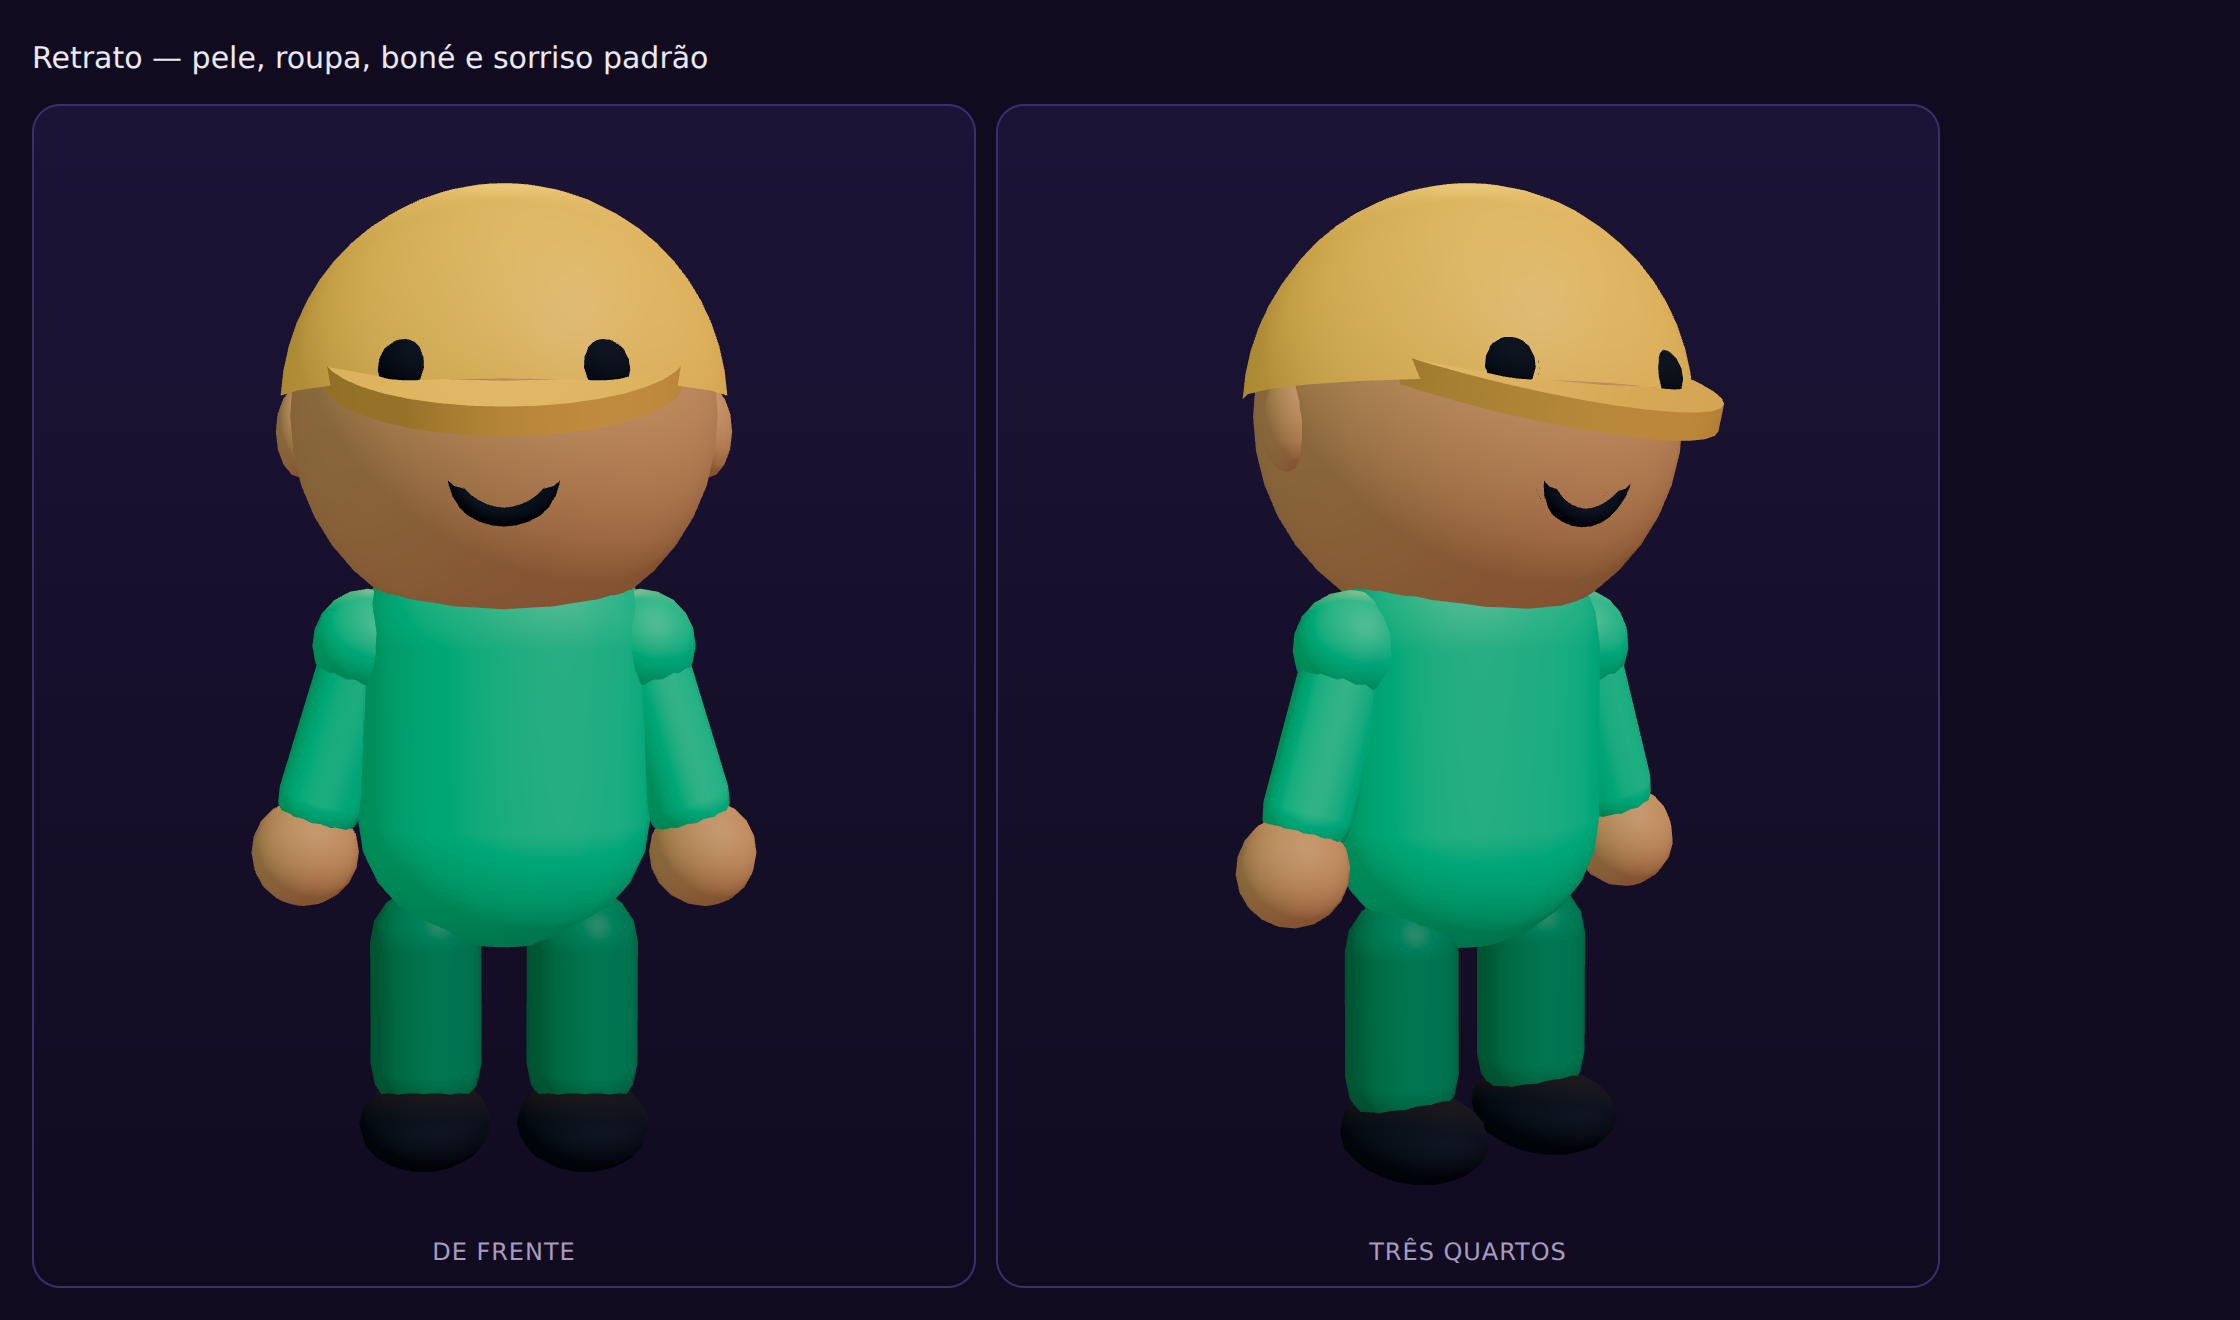
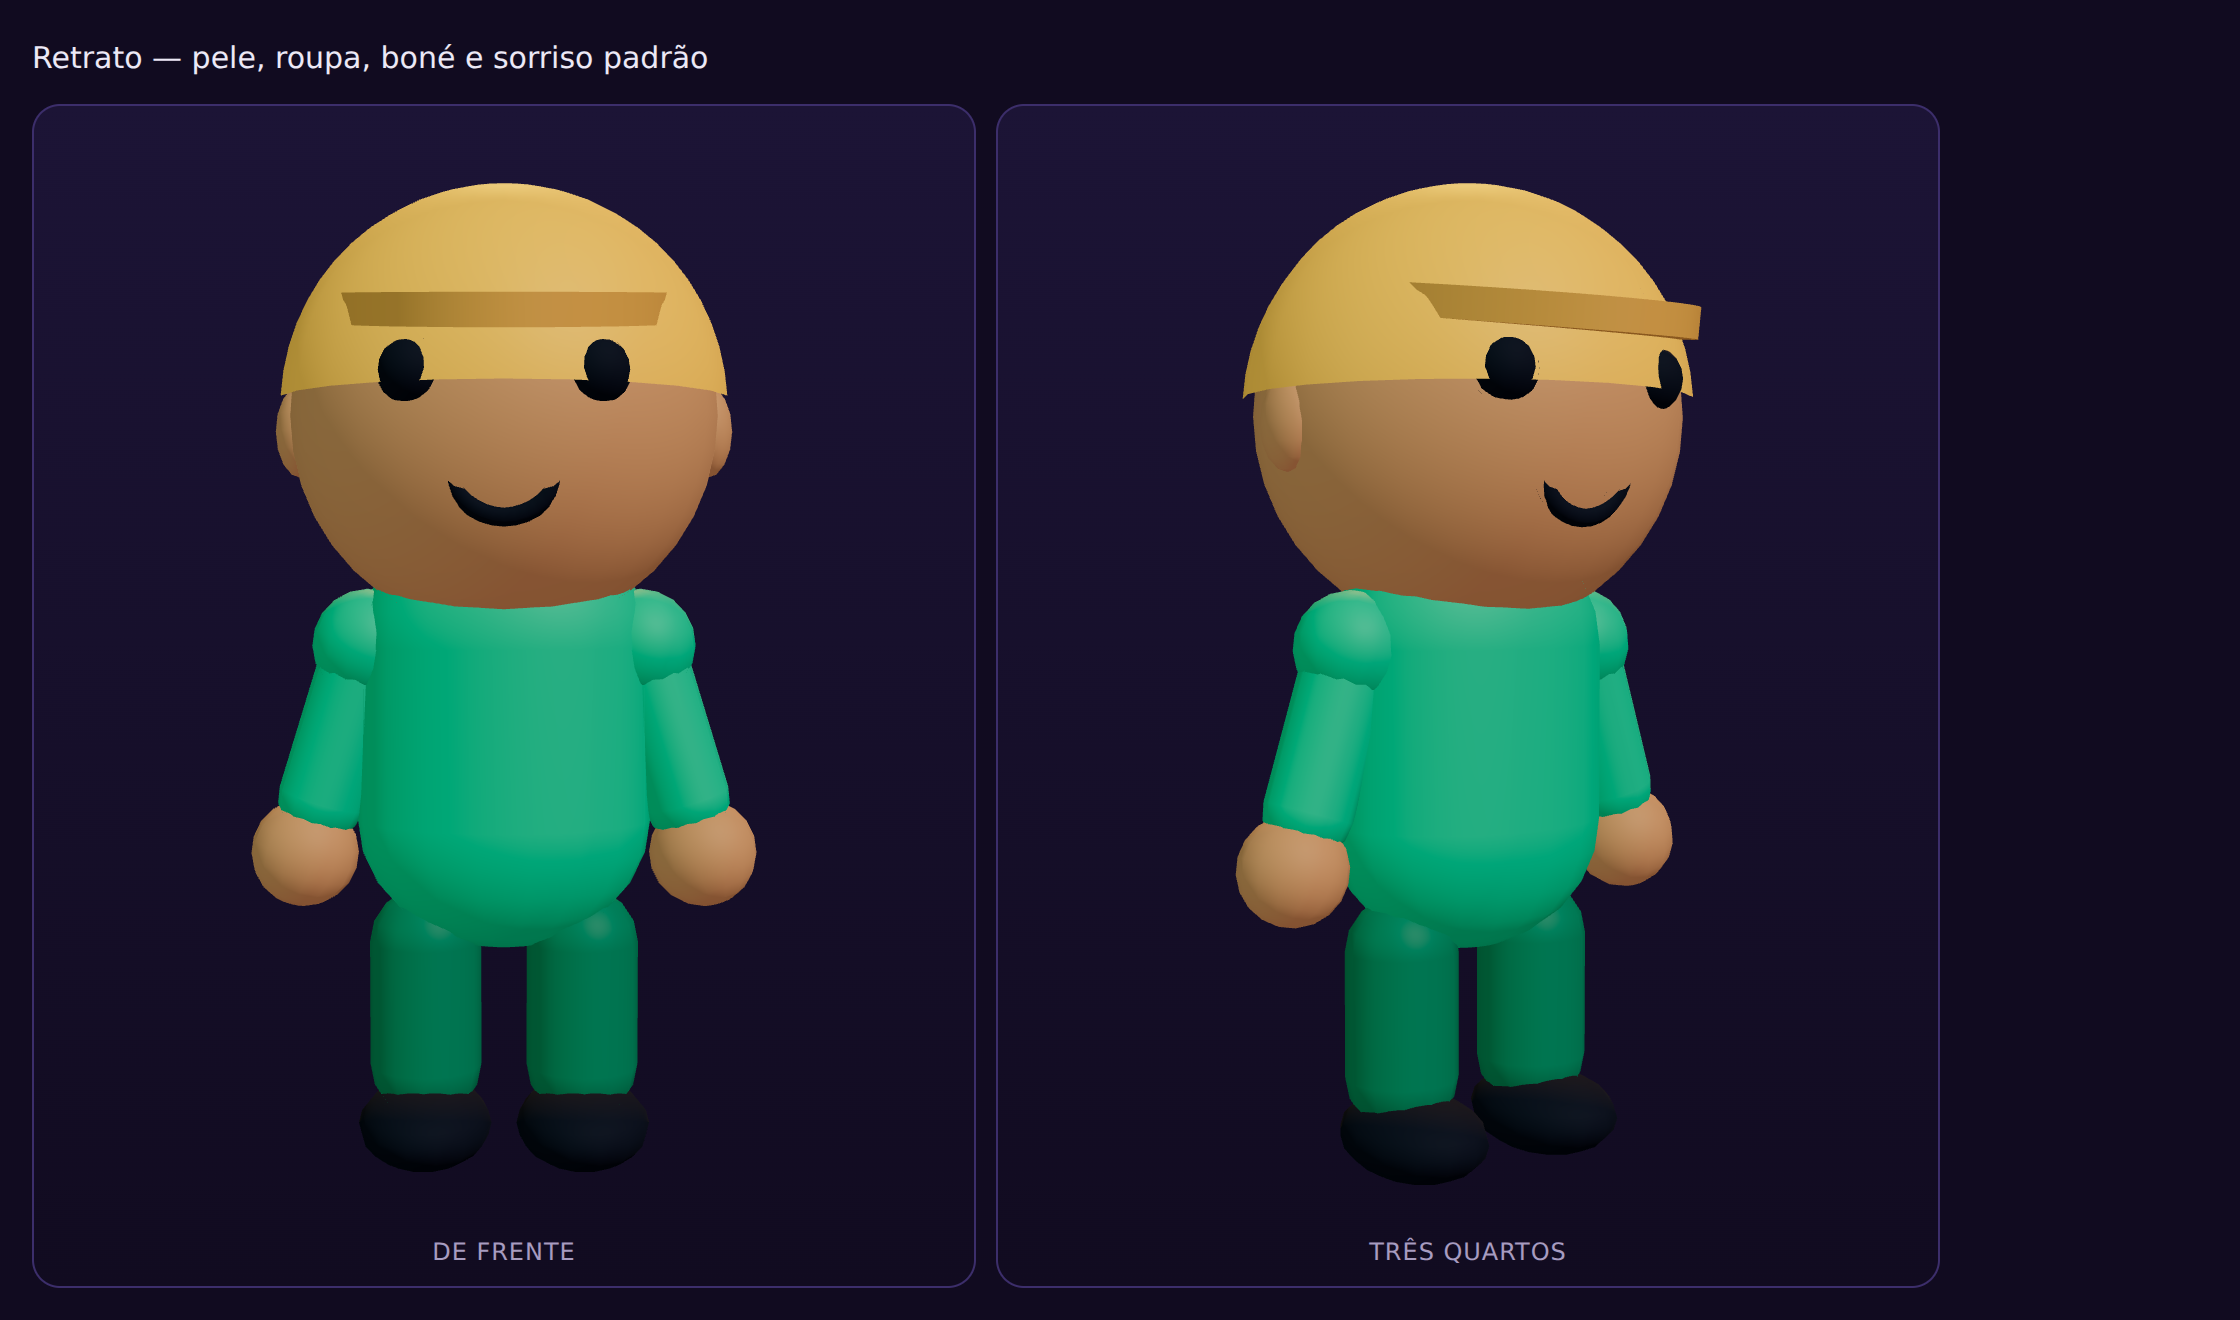
Ergue a aba do bone para o rosto voltar a aparecer
Fecha #9.

A correcao anterior passou do ponto: a aba ficou tao inclinada e longa que
cobria os olhos, e o personagem de bone perdia o rosto. Agora a ponta para
acima da linha dos olhos, com a aba mais curta e mais estreita que a cabeca.

Os dois olhos e o sorriso voltam a ler de frente, e o bone segue distinto da
viseira, que tem o topo vazado.

A aba ainda le mais como barra chata que como aba projetada — e o mais fraco
dos nove chapeus. Fica anotado para a passada de acabamento visual, junto com
o resto do #4: uma quarta volta so nessa geometria custaria mais do que
entrega.

Claude-Session: https://claude.ai/code/session_01Nko3ctY1rBK7riJFu5nmqe

Changed region(s): [[0.625, 0.2174, 0.7812, 0.3417], [0.125, 0.2795, 0.3125, 0.3417], [0.1562, 0.2174, 0.3125, 0.2485]]

diff --git a/src/components/three/Chapeus.tsx b/src/components/three/Chapeus.tsx
@@ -102,13 +102,13 @@ function Bone({ mats }: { mats: Materiais }) {
       <Copa raio={R_CABECA * 1.05} abertura={Math.PI * 0.48} material={mats.detalhe} y={0.01} />
       {/* aba estreita e quase horizontal: sai da copa e para acima dos olhos */}
       <MeiaAba
-        raio={R_CABECA * 0.62}
-        espessura={0.055}
+        raio={R_CABECA * 0.78}
+        espessura={0.07}
         material={mats.detalheEscuro}
-        y={0.22}
-        z={0.06}
-        inclinacao={0.1}
-        escalaZ={2.1}
+        y={0.26}
+        z={0.02}
+        inclinacao={0.14}
+        escalaZ={1.7}
       />
       <mesh position={[0, R_CABECA * 0.98, 0]} material={mats.detalheEscuro}>
         <sphereGeometry args={[0.05, 10, 8]} />
